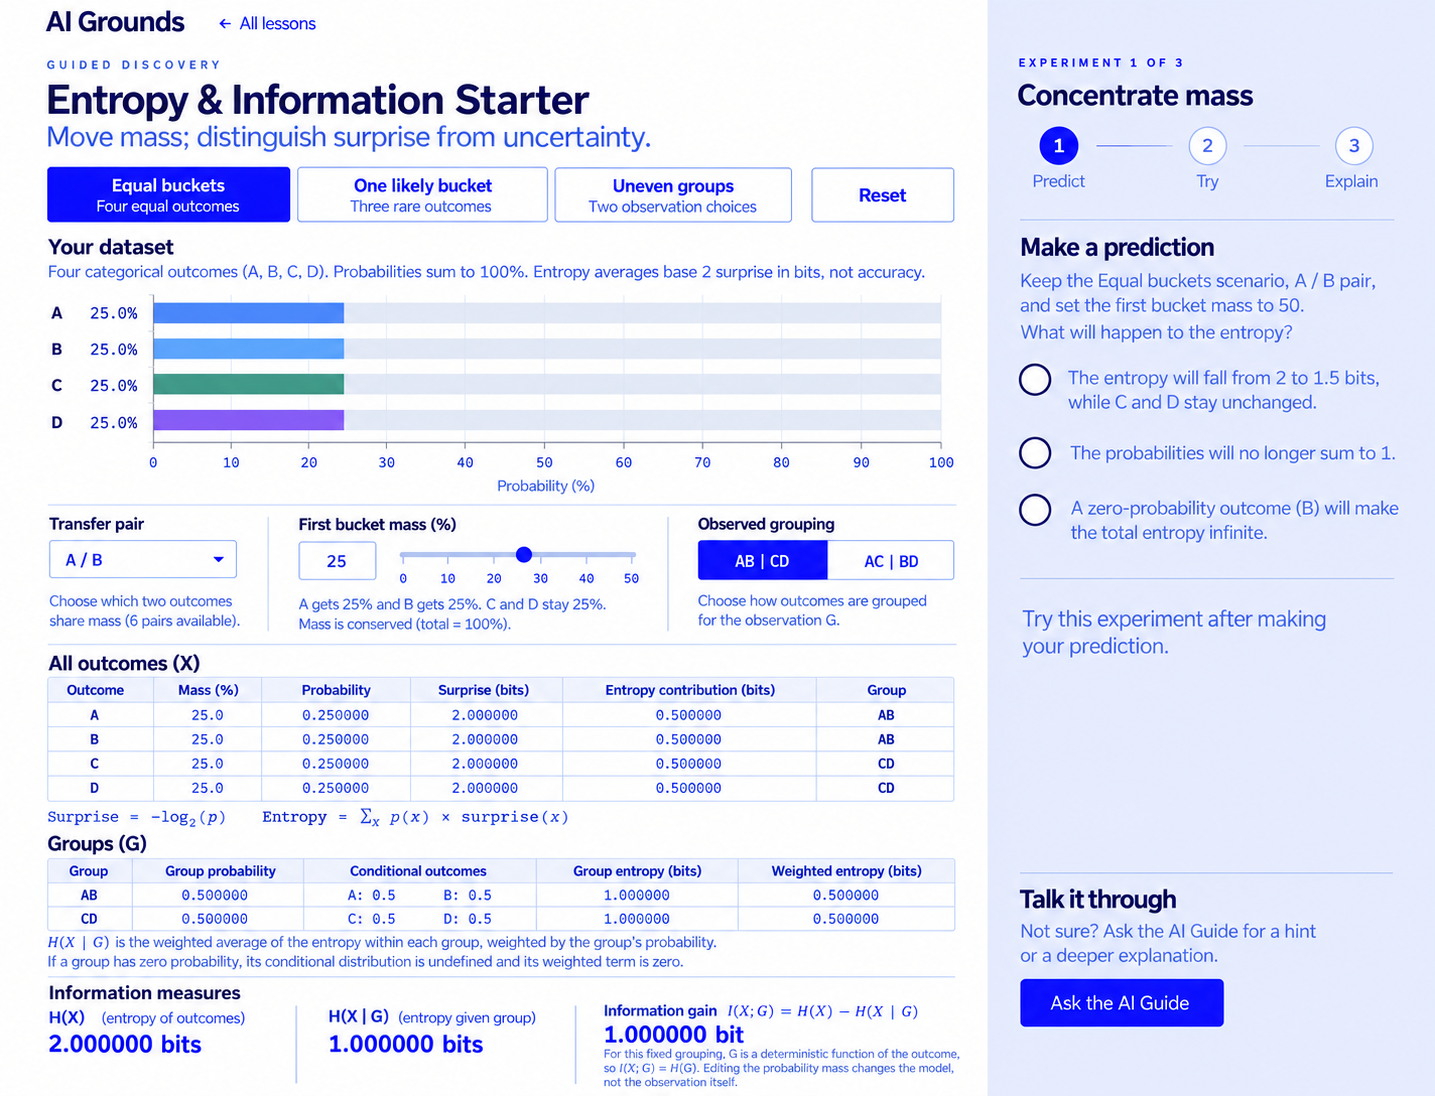
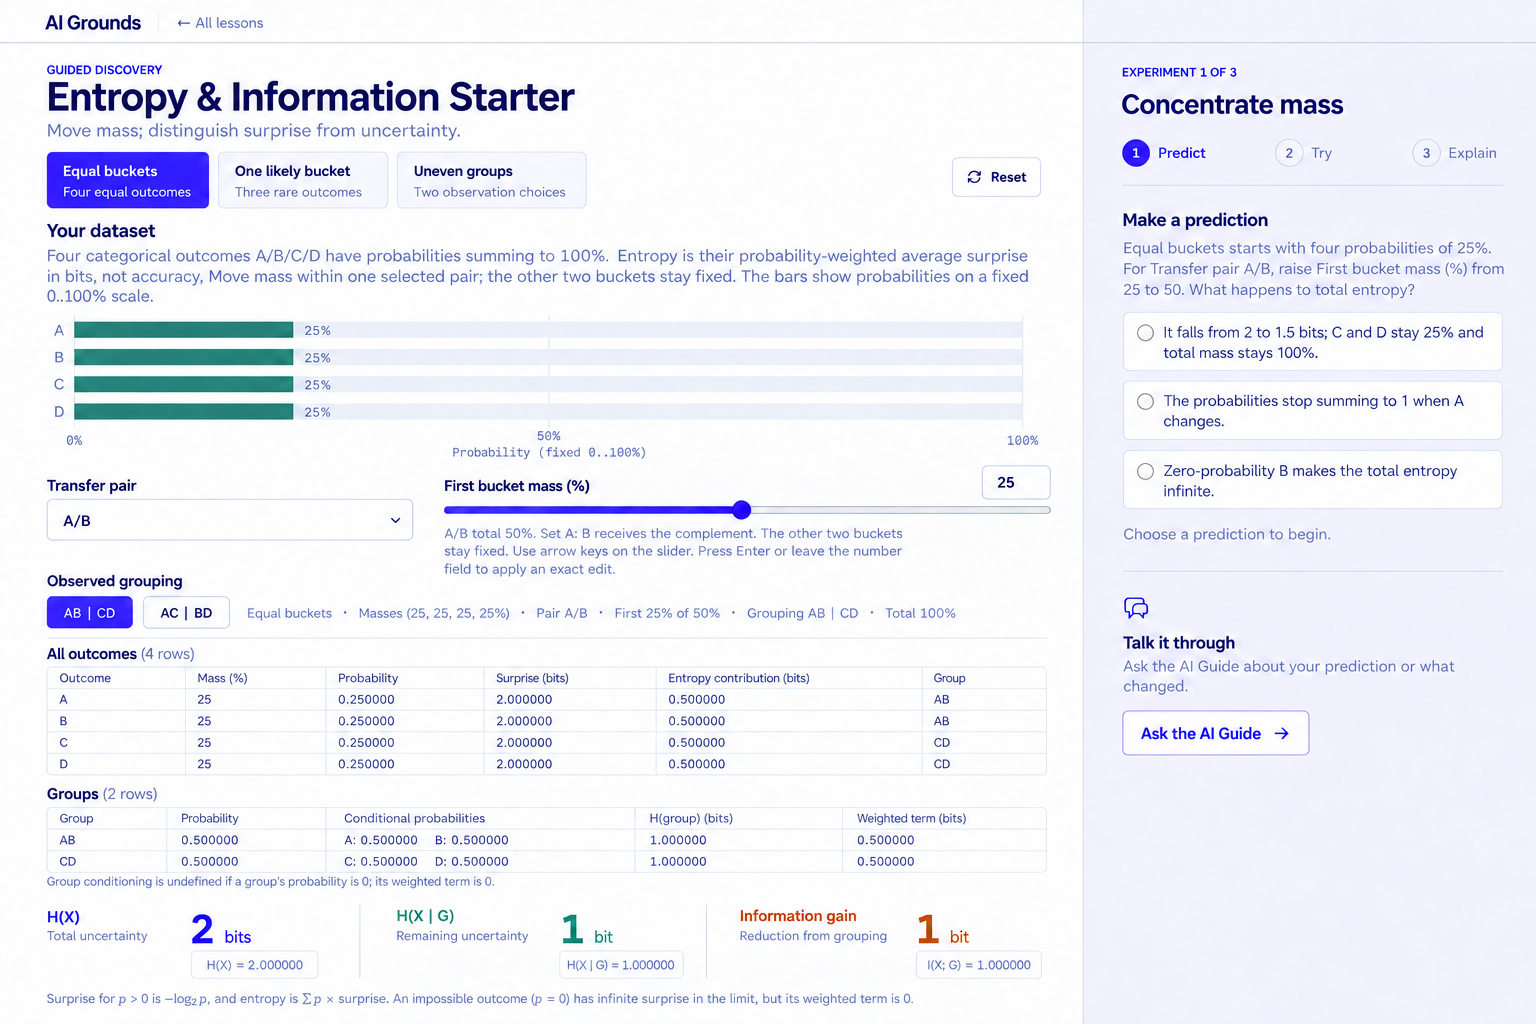
Restore original style in entropy design reference

Changed region(s): [[0.0307, 0.0, 0.9812, 1.0], [0.9199, 0.125, 0.9812, 0.1875]]

diff --git a/src/modules/entropy-information/design/imagegen-prompt.md b/src/modules/entropy-information/design/imagegen-prompt.md
@@ -6,3 +6,12 @@ Create an AI Grounds shared-design educational lesson mockup1440x1100. Follow at
 
 Create an AI Grounds shared-design educational lesson mockup1440x1100. Follow attachedacceptedreference continuouswhite69%workbench/palelavender31%rail,navy SpaceGrotesk,indigo interaction,IBM Plex Mono formulas,thin rules,no nestedshadowcards. SmallGuided discoveryeyebrow,title Entropy & Information Starter,subtitle Move mass; distinguish surprise from uncertainty. Scenarios Equal buckets / Four equal outcomes selected, One likely bucket / Three rare outcomes, Uneven groups / Two observation choices,Reset. Your dataset: four categorical outcomes A/B/C/D,probabilities sum100%; entropy averages base2surprise inbits,notaccuracy. Mainfour horizontalprobabilitybars each25%, fixed0..100%axis, exactIDlabels,nooverlap. Underplot Transfer pair native select A/B (sixpairsavailable), First bucket mass (%) exactnumber25+native slider0..50; helpselectedpairtotals50%,Agets25%,Bgets25%,C/Dstay25%,massconserved. Observed grouping sharedtoggle AB | CD selected / AC | BD. One exactalloutcometable headersOutcome,Mass%,Probability,Surprise(bits),Entropy contribution(bits),Group; A25/.25/2/.5/AB;BsameAB;CsameCD;DsameCD. Supporting groupconditionaltable Group,Group probability,Conditional outcomes,Group entropy(bits),Weighted entropy(bits): AB/.5/A.5 B.5/1/.5;CD/.5/C.5 D.5/1/.5. Explainconditionalentropyweighted bygroupchance;zero probabilitygroup hasUndefinedconditionaldistribution andzeroweightedterm. Summaries open3columns H(X)2.000000bits, H(X|G)1.000000bits, Information gain1.000000bit =2−1. FixedgroupGis deterministicgivenoutcome:gainI(X;G)=H(G);editingprobabilitymasschangesmodel,notobservationitself. Experiment1of3righttitle Concentrate mass, progressPredict→Try→Explain. Prediction: keepEqualbuckets,A/Bpair,setFirstbucketmass50. Will entropy fall2→1.5bits whileC/Dunchanged,probabilitiesstopsum1,orzero-probabilityBmakestotalentropyinfinite? Proper firstchoice,wrongrecoverieslater. TalkitthroughoneAskAI GuideCTArailonly. No probabilityrenormalization,unseen thirdplot,sampling,accuracyclaim or codingalgorithm. Allcolorsaccompaniedlabels,tables/mathcorrect.SVGenginegeometrywillbeauthoritative.
 Interaction-state correction: this is the initial Predict phase. Every prediction radio must be empty/hollow, with no selected answer or visual indication of correctness. The learner has not predicted yet. Keep Try this experiment after making your prediction, consistent with no selected radio. Add visible formula Surprise=−log₂(p), entropy=Σp×surprise in a short workbench caption or table caption; existing weighted group entropy and information-gain construction remains. Otherwise keep the strong shared layout, exact numerical tables and control scope. No extra diagrams or controls.
+
+# Original-style correction
+
+Use case: ui-mockup. Image1 is original APPROVED AI Grounds paired reference; match LEFTpage's originalstyle. Image2 is REAL current Entropy lesson rendering: use it for exact actual palette and typography, not another design. Generate ONE complete Entropy & Information Starter mockup faithful to sharedcode/originalreference: whitecontinuous69%workbench,palelavenderf6f5ff31%rail,navy0c1230headings/body,slatemuted536487secondary,indigo5031dc controls,dividersdfe4f4,SpaceGrotesk/IBMPlexMonoformulas. Noelectricblue body/controltheme, nobluegradientrail, nohugecards. Navbar AI Grounds/←All lessons only, smallGuideddiscoveryeyebrow,title,subtitle Move mass; distinguish surprise from uncertainty. Two-line scenarios Equal buckets/Four equal outcomes activefilledindigo;One likely bucket/Three rare outcomes;Uneven groups/Two observation choices, smalloutlinedReset. Your dataset: Four categorical outcomesA/B/C/D,probabilities sum100%,entropyweightedaveragesurpriseinbits,notaccuracy. Fourhorizontalmutedteal087c78bars25%each, fixed0/50/100%axis,labelallIDs/navy25%. Chart accuratelyquarterfullwidth each. Underchartsharednative Transfer pair selectA/B;First bucket mass (%)25number/sliderrange0..50, helps A/Btotal50%,A25B25,C/Dfixed. Observed grouping buttons AB | CDselectedindigo /AC | BD. All-outcometable Outcome/Mass(%)/Probability/Surprise(bits)/Entropycontribution(bits)/Group: A25/.250000/2.000000/.500000/AB; BsameAB; CsameCD; DsameCD. Caption Surpriseforp>0=−log₂p,entropy=Σp×surprise;impossiblep0 infinite surpriselimitbutweightedterm0. GroupsGtable ABprob.5,conditionalA.5/B.5,H1,weighted.5;CDprob.5,conditionalC.5/D.5,H1,weighted.5. Groupconditioningundefinedifprob0,weightedterm0. Open3summarycolumns H(X)2bitsindigo,H(X|G)1bitteal,Informationgain1bitorange,shortformulas. Rail Experiment1of3 Concentrate mass, originalcompactinlinePredict→Try→Explain. PredictionEqualbuckets A/B,raiseFirstmass25to50,what happens? ThreeEMPTY boxedradios: falls2→1.5bits,C/Dfixed/totalmass100%;probabilitiesstopsum1;zeroBmakestotalentropyinfinite. Allunselected. SmallChoosepredictiontobegin. Talk it through NONBUTTONnavyheading/chatoutlineicon+mutedshortparagraph+ONEsmalloutlinedAsk the AI Guidebutton/arrow,onlyinrail. Exactnavytable/text,slatemutedinstructions,indigoactive. NOsaturatedcobaltblue typography. Singlepage, generouslegiblespacing withthinrules, originalstyle not dashboard. Semanticformulae correct. Actualimplementationenginegeometryis authority.
+
+Correction: summaries stay in LEFT WORKBENCH BELOW BOTH TABLES, not experimentrail. Tables verticallystackedfullleftwidth notcompressedsidebyside. First bucket mass slider range0..50,value25,thumbatEXACTMIDPOINT. Keepfixed25%bargeometry. Rail ends aftersingleGuideinvitation; no numeric dashboard insertedthere. Preserve improvednavy/indigo/lavenderpalette. Tallcanvasfine; smalllegiblenormalfont. No otherchange.
+
+Single-cell correction:
+Edit exactly ONE text cell in this image. In Groups table, AB row, Probability column currently incorrectly reads 0.260000. Replace it with EXACT '0.500000'. The underlying massesA25+B25makegroupP.5. Preserve EVERY other pixel, text, value, layout, color, font, slider thumb, bar geometry and table cells. No restyling, no regeneration of other tables or extra elements. Only replaceABgroupProbabilitytextwith0.500000. Keep CDgroupP0.500000, bothchildH1.000000andweighted.500000, alloutcomerows25/.25/2/.5, summaries2/1/1. Exact correction only.
